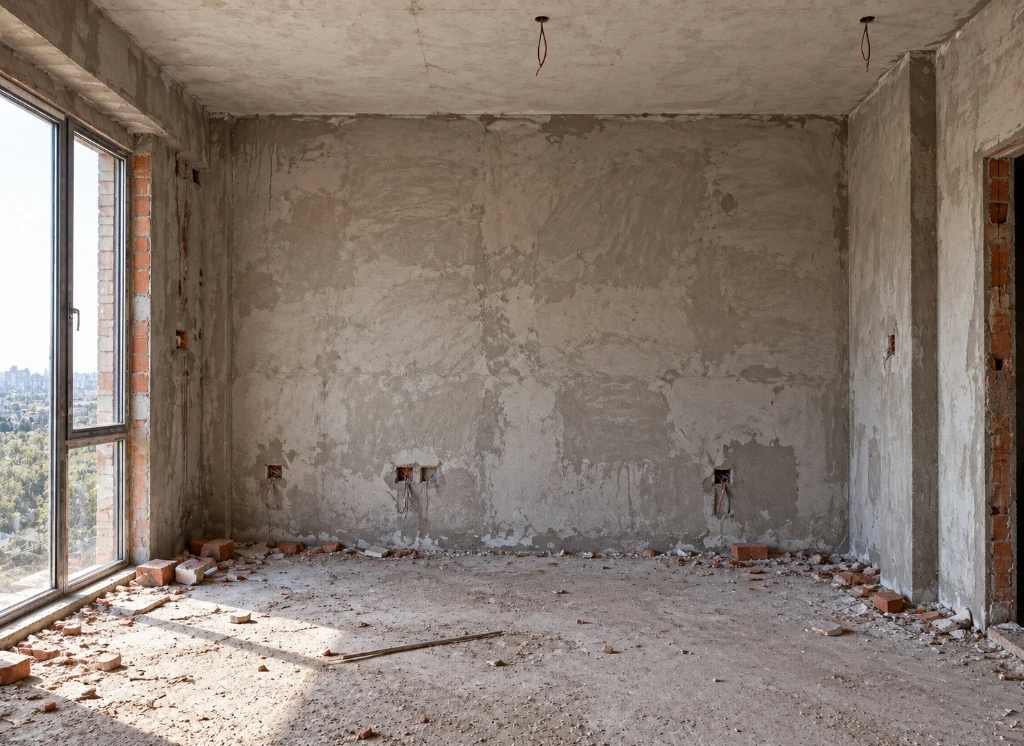
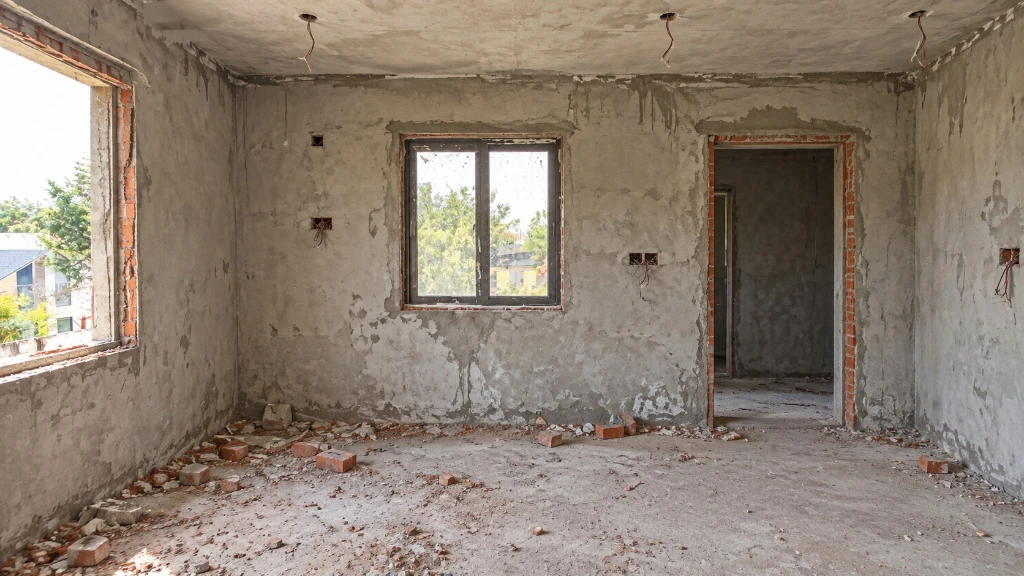
fix(projects): update before image for The Ivory Retreat (Kokapet Urban 2BHK)

diff --git a/client/src/pages/ProjectDetails.jsx b/client/src/pages/ProjectDetails.jsx
@@ -704,7 +704,7 @@ const ProjectDetails = () => {
       cleanSlug === 'the-ivory-retreat' || 
       resolvedSlug === 'kokapet-urban-2bhk'
     ) {
-      item.beforeImage = 'https://res.cloudinary.com/r3jwfy0y/image/upload/v1791051300/espacio_gallery/nslcfifkgxxmqncbouqz.jpg';
+      item.beforeImage = 'https://res.cloudinary.com/r3jwfy0y/image/upload/v1791117122/espacio_gallery/zjc83xwzwjrijgnbto2z.jpg';
       item.afterImage = 'https://res.cloudinary.com/r3jwfy0y/image/upload/v1791051307/espacio_gallery/xeip5cg3agnlqw7rtymo.jpg';
       item.beforeImages = [item.beforeImage];
       item.afterImages = [item.afterImage];
@@ -1061,7 +1061,7 @@ const ProjectDetails = () => {
           afterImg = 'https://res.cloudinary.com/r3jwfy0y/image/upload/f_auto/q_auto/5d678d57-3ff6-4ce4-87fb-29b692a0cf84.png';
         }
         if (p.slug === 'kokapet-urban-2bhk' || p._id === 'proj_4_kokapet_rahul' || p.title?.includes('Ivory') || p.title?.includes('Rahul') || cleanSlug === 'kokapet-urban-2bhk' || cleanSlug === 'kokapet-urban' || cleanSlug === 'the-ivory-retreat' || cleanSlug === 'rahul' || resolvedSlug === 'kokapet-urban-2bhk') {
-          beforeImg = 'https://res.cloudinary.com/r3jwfy0y/image/upload/v1791051300/espacio_gallery/nslcfifkgxxmqncbouqz.jpg';
+          beforeImg = 'https://res.cloudinary.com/r3jwfy0y/image/upload/v1791117122/espacio_gallery/zjc83xwzwjrijgnbto2z.jpg';
           afterImg = 'https://res.cloudinary.com/r3jwfy0y/image/upload/v1791051307/espacio_gallery/xeip5cg3agnlqw7rtymo.jpg';
         }
         if (p.slug === 'kokapet-2bhk' || p._id === 'proj_3_kokapet_nagesh' || p.title?.includes('Boucle') || p.title?.includes('Nagesh') || cleanSlug === 'kokapet-2bhk' || cleanSlug === 'kokapet' || cleanSlug === 'the-boucle-residence' || resolvedSlug === 'kokapet-2bhk') {

diff --git a/server/scripts/update_rahul_before.js b/server/scripts/update_rahul_before.js
@@ -1,0 +1,39 @@
+import { query } from '../config/supabase.js';
+
+async function main() {
+  const newBeforeUrl = 'https://res.cloudinary.com/r3jwfy0y/image/upload/v1791117122/espacio_gallery/zjc83xwzwjrijgnbto2z.jpg';
+  const checkRes = await query('SELECT id, slug, before_after, data FROM projects WHERE id = $1 OR slug = $2', ['proj_4_kokapet_rahul', 'kokapet-urban-2bhk']);
+  console.log('Found Supabase project rows:', checkRes.rows.length);
+
+  for (const row of checkRes.rows) {
+    let currentData = {};
+    if (row.data) {
+      currentData = typeof row.data === 'string' ? JSON.parse(row.data) : row.data;
+    }
+    
+    currentData.beforeImage = newBeforeUrl;
+    currentData.beforeImages = [newBeforeUrl];
+    if (Array.isArray(currentData.before_after) && currentData.before_after.length > 0) {
+      currentData.before_after[0].before = newBeforeUrl;
+    } else {
+      currentData.before_after = [{ before: newBeforeUrl, after: currentData.afterImage || 'https://res.cloudinary.com/r3jwfy0y/image/upload/v1791051307/espacio_gallery/xeip5cg3agnlqw7rtymo.jpg' }];
+    }
+
+    const beforeAfter = currentData.before_after;
+
+    await query(`
+      UPDATE projects SET
+        before_after = $1::jsonb,
+        data = $2::jsonb,
+        updated_at = NOW()
+      WHERE id = $3
+    `, [
+      JSON.stringify(beforeAfter),
+      JSON.stringify(currentData),
+      row.id
+    ]);
+    console.log('✓ Updated Supabase project:', row.id);
+  }
+}
+
+main().catch(console.error).finally(() => process.exit(0));

diff --git a/client/src/utils/cmsStore.js b/client/src/utils/cmsStore.js
@@ -297,10 +297,10 @@ export const DEFAULT_PROJECTS = [
       "https://res.cloudinary.com/r3jwfy0y/image/upload/v1791051328/espacio_gallery/nrpnwjy0usmclyfcvcvl.jpg",
       "https://res.cloudinary.com/r3jwfy0y/image/upload/v1791051330/espacio_gallery/re3wfqbpnwhdgs1934kk.jpg"
     ],
-    "beforeImage": "https://res.cloudinary.com/r3jwfy0y/image/upload/v1791051300/espacio_gallery/nslcfifkgxxmqncbouqz.jpg",
+    "beforeImage": "https://res.cloudinary.com/r3jwfy0y/image/upload/v1791117122/espacio_gallery/zjc83xwzwjrijgnbto2z.jpg",
     "afterImage": "https://res.cloudinary.com/r3jwfy0y/image/upload/v1791051307/espacio_gallery/xeip5cg3agnlqw7rtymo.jpg",
     "beforeImages": [
-      "https://res.cloudinary.com/r3jwfy0y/image/upload/v1791051300/espacio_gallery/nslcfifkgxxmqncbouqz.jpg"
+      "https://res.cloudinary.com/r3jwfy0y/image/upload/v1791117122/espacio_gallery/zjc83xwzwjrijgnbto2z.jpg"
     ],
     "afterImages": [
       "https://res.cloudinary.com/r3jwfy0y/image/upload/v1791051307/espacio_gallery/xeip5cg3agnlqw7rtymo.jpg"

diff --git a/client/src/utils/projectRooms.js b/client/src/utils/projectRooms.js
@@ -390,6 +390,9 @@ const EXACT_PROJECT_ROOMS = {
     're3wfqbpnwhdgs1934kk.png': 'Dining & Kitchen Transition Perspective',
     'rahul_gallery_29.webp': 'Dining & Kitchen Transition Perspective',
     'rahul_gallery_29': 'Dining & Kitchen Transition Perspective',
+    'https://res.cloudinary.com/r3jwfy0y/image/upload/v1791117122/espacio_gallery/zjc83xwzwjrijgnbto2z.jpg': 'Raw Site Shell & Pre-Fitout Framing',
+    'zjc83xwzwjrijgnbto2z': 'Raw Site Shell & Pre-Fitout Framing',
+    'zjc83xwzwjrijgnbto2z.jpg': 'Raw Site Shell & Pre-Fitout Framing',
     'https://res.cloudinary.com/r3jwfy0y/image/upload/v1791051300/espacio_gallery/nslcfifkgxxmqncbouqz.jpg': 'Raw Site Shell & Pre-Fitout Framing',
     'nslcfifkgxxmqncbouqz': 'Raw Site Shell & Pre-Fitout Framing',
     'nslcfifkgxxmqncbouqz.jpg': 'Raw Site Shell & Pre-Fitout Framing',
